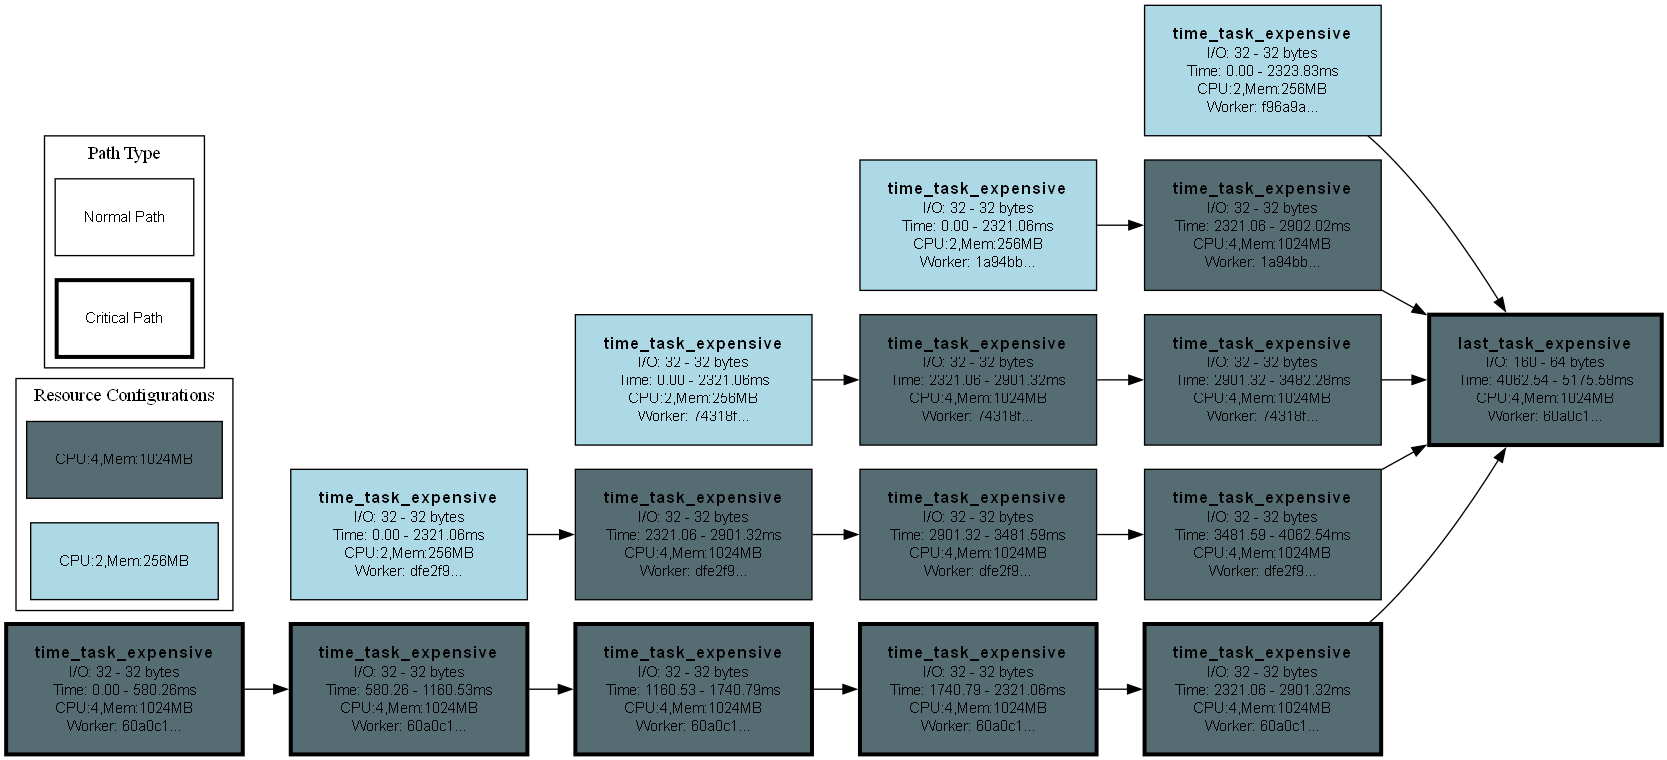
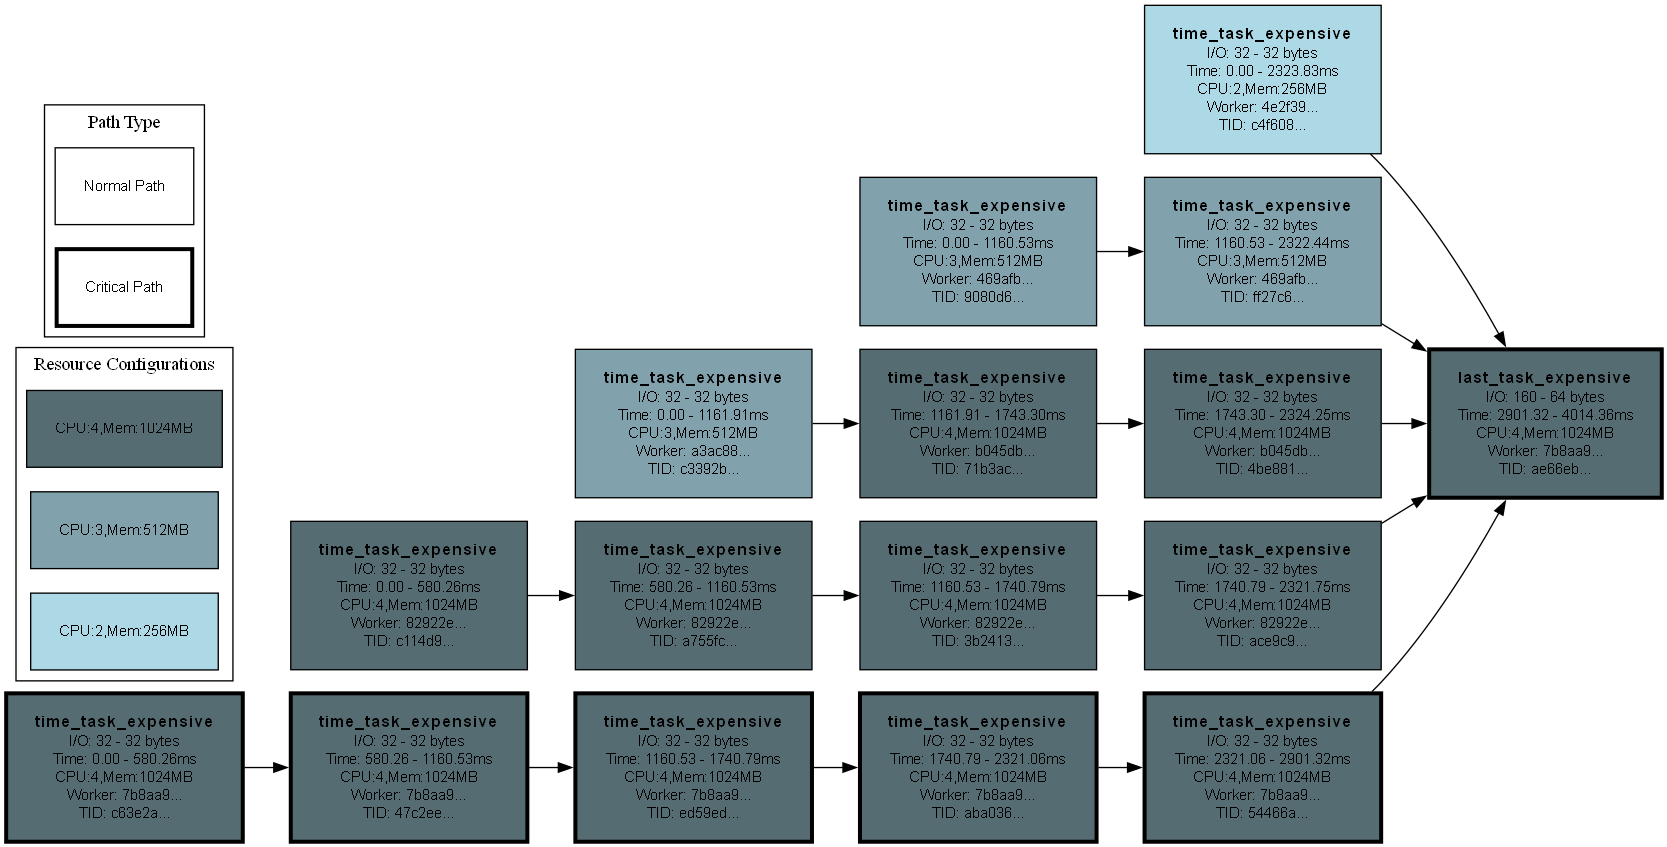
simplify planner code + fix planner to peroperly assign worker_ids + resource configuration downgrade phase now considers the resource configs of the upstream nodes to make the predictions consider locality

diff --git a/src/planning/dag_planner.py b/src/planning/dag_planner.py
@@ -137,7 +137,7 @@ class DAGPlanner(ABC):
         
         return nodes_info
     
-    def _calculate_node_timings_with_custom_resources(self, topo_sorted_nodes: list[DAGTaskNode], metadata_access: MetadataAccess, node_to_resource_config: dict[str, TaskWorkerResourceConfiguration], sla: SLA):
+    def _calculate_node_timings_with_custom_resources(self, topo_sorted_nodes: list[DAGTaskNode], metadata_access: MetadataAccess, sla: SLA):
         """
         Calculate timing information for all nodes using custom resource configurations
         """
@@ -145,12 +145,12 @@ class DAGPlanner(ABC):
 
         for node in topo_sorted_nodes:
             node_id = node.id.get_full_id()
-            worker_id = node.get_annotation(TaskWorkerResourceConfiguration).worker_id
+            resource_config = node.get_annotation(TaskWorkerResourceConfiguration)
+            worker_id = resource_config.worker_id
             (input_size_per_worker, total_input_size) = self._calculate_input_sizes_per_worker_id(node, nodes_info)
             downloadable_input_size = 0
             for upstream_worker_id, upstream_node_input_size in input_size_per_worker.items():
                 if upstream_worker_id != worker_id: downloadable_input_size += upstream_node_input_size
-            resource_config = node_to_resource_config[node_id]
             download_time = metadata_access.predict_data_transfer_time('download', downloadable_input_size, resource_config, sla, allow_cached=True)
             assert download_time is not None
             exec_time = metadata_access.predict_execution_time(node.func_name, total_input_size, resource_config, sla, allow_cached=True)
@@ -228,7 +228,7 @@ class DAGPlanner(ABC):
                 raise Exception(f"Worker {worker_id} has different resource configurations on different tasks")
             worker_id_to_resources_map[worker_id] = (resource_config.cpus, resource_config.memory_mb)
 
-    def _visualize_plan(self, dag, nodes_info: dict[str, PlanningTaskInfo], node_to_resource_config, critical_path_node_ids):
+    def _visualize_plan(self, dag, nodes_info: dict[str, PlanningTaskInfo], critical_path_node_ids):
         """
         Visualize the DAG with task information using Graphviz.
         
@@ -240,6 +240,7 @@ class DAGPlanner(ABC):
             output_file: Base filename to save the visualization (without extension)
         """
         from src.dag.dag import GenericDAG
+        _dag: GenericDAG = dag
         # Create a new directed graph
         dot = Digraph(comment='DAG Visualization')
         dot.attr(rankdir='LR')  # Left to right layout
@@ -248,7 +249,8 @@ class DAGPlanner(ABC):
         
         # Collect unique resource configurations and sort them
         resource_configs = {}
-        for node_id, config in node_to_resource_config.items():
+        for node in _dag._all_nodes.values():
+            config = node.get_annotation(TaskWorkerResourceConfiguration)
             config_key = f"CPU:{config.cpus},Mem:{config.memory_mb}MB"
             resource_configs[config_key] = (config.cpus, config.memory_mb)
         
@@ -277,7 +279,7 @@ class DAGPlanner(ABC):
         # Add nodes
         for node_id, info in nodes_info.items():
             node = info.node_ref
-            resource_config = node_to_resource_config[node_id]
+            resource_config = info.node_ref.get_annotation(TaskWorkerResourceConfiguration)
             config_key = f"CPU:{resource_config.cpus},Mem:{resource_config.memory_mb}MB"
             
             # Create node label with task name in bold and larger font
@@ -289,6 +291,7 @@ class DAGPlanner(ABC):
                     f"<TR><TD><FONT POINT-SIZE='11'>Time: {info.earliest_start:.2f} - {info.path_completion_time:.2f}ms</FONT></TD></TR>" \
                     f"<TR><TD><FONT POINT-SIZE='11'>{config_key}</FONT></TD></TR>" \
                     f"<TR><TD><FONT POINT-SIZE='11'>Worker: {node.get_annotation(TaskWorkerResourceConfiguration).worker_id[:6]}...</FONT></TD></TR>" \
+                    f"<TR><TD><FONT POINT-SIZE='11'>TID: {node.id.get_full_id()[-6:]}...</FONT></TD></TR>" \
                     f"</TABLE>>"
             
             # Set node properties
@@ -391,7 +394,7 @@ class SimpleDAGPlanner(DAGPlanner, WorkerExecutionLogic):
                     unique_resources.worker_id = uuid.uuid4().hex
                 else:
                     # Use same worker id as its first upstream node
-                    unique_resources.worker_id = _dag._all_nodes[node.upstream_nodes[0].id.get_full_id()].get_annotation(TaskWorkerResourceConfiguration).worker_id
+                    unique_resources.worker_id = node.upstream_nodes[0].get_annotation(TaskWorkerResourceConfiguration).worker_id
             return
 
         if not metadata_access.has_required_predictions():
@@ -406,7 +409,7 @@ class SimpleDAGPlanner(DAGPlanner, WorkerExecutionLogic):
                     unique_resources.worker_id = uuid.uuid4().hex
                 else:
                     # Use same worker id as its first upstream node
-                    unique_resources.worker_id = _dag._all_nodes[node.upstream_nodes[0].id.get_full_id()].get_annotation(TaskWorkerResourceConfiguration).worker_id
+                    unique_resources.worker_id = node.upstream_nodes[0].get_annotation(TaskWorkerResourceConfiguration).worker_id
             return
         
         logger.info(f"Starting DAG Planning Algorithm")
@@ -417,67 +420,69 @@ class SimpleDAGPlanner(DAGPlanner, WorkerExecutionLogic):
         # Calculate critical path by analyzing execution times for each path
         # First, calculate execution times for each node with best resources
         
+        # Give best resources to all nodes and reuse worker ids randomly
+        for node in topo_sorted_nodes:
+            resource_config = best_resource_config.clone()
+            node.add_annotation(resource_config)
+            if len(node.upstream_nodes) == 0:
+                # Give each root node a unique worker id
+                resource_config.worker_id = uuid.uuid4().hex
+            else:
+                # Use same worker id as its first upstream node
+                resource_config.worker_id = node.upstream_nodes[0].get_annotation(TaskWorkerResourceConfiguration).worker_id
+
         # Initial planning with Best Resources for all nodes
         nodes_info = self._calculate_node_timings_with_common_resources(topo_sorted_nodes, metadata_access, best_resource_config, self.config.sla)
         critical_path_nodes, critical_path_time = self._find_critical_path(dag, nodes_info)
         critical_path_node_ids = { node.id.get_full_id() for node in critical_path_nodes }
         
         logger.info(f"CRITICAL PATH | Nodes: {len(critical_path_nodes)} | Predicted Completion Time: {critical_path_time} ms")
-        
-        # Downgrade resources for nodes NOT on the critical path
-        # Start with all nodes using best resources
-        node_to_resource_config: dict[str, TaskWorkerResourceConfiguration] = {}
-        for node in topo_sorted_nodes:
-            node_to_resource_config[node.id.get_full_id()] = best_resource_config.clone()
-            if len(node.upstream_nodes) == 0:
-                # Give each root node a unique worker id
-                node_to_resource_config[node.id.get_full_id()].worker_id = uuid.uuid4().hex
-            else:
-                # Use same worker id as its first upstream node
-                node_to_resource_config[node.id.get_full_id()].worker_id = node_to_resource_config[node.upstream_nodes[0].id.get_full_id()].worker_id
 
         nodes_outside_critical_path = [node for node in topo_sorted_nodes if node.id.get_full_id() not in critical_path_node_ids]
         lower_resources_simulation_timer = Timer()
         successful_downgrades = 0
-        # For each NON-critical path node, try to use lower resources
+        # Simulate downgrading resources for nodes NOT on the critical path without creating a new critical path
         for node in nodes_outside_critical_path:
             node_id = node.id.get_full_id()
             node_downgrade_successful = False
             # Try each resource config from highest to lowest on the same worker or new workers
             for resource_config in self.config.available_worker_resource_configurations:
-                original_config = node_to_resource_config[node_id]
+                original_config = node.get_annotation(TaskWorkerResourceConfiguration)
+                # if resource_config.cpus == original_config.cpus and resource_config.memory_mb == original_config.memory_mb: continue
                 # Temporarily assign this resource config
                 simulation_resource_config = resource_config.clone()
-                simulation_resource_config.worker_id = original_config.worker_id
-                node_to_resource_config[node_id] = simulation_resource_config
+                simulation_resource_config.worker_id = ""
 
                 for unode in node.upstream_nodes:
-                    simulation_resource_config.worker_id = node_to_resource_config[unode.id.get_full_id()].worker_id
-                        
-                    # Recalculate timings with this resource configuration
-                    temp_nodes_info = self._calculate_node_timings_with_custom_resources(topo_sorted_nodes, metadata_access, node_to_resource_config, self.config.sla)
-                    _, new_critical_path_time = self._find_critical_path(dag, temp_nodes_info)
+                    unode_resources = unode.get_annotation(TaskWorkerResourceConfiguration)
+                    if unode_resources.cpus == simulation_resource_config.cpus and unode_resources.memory_mb == simulation_resource_config.memory_mb: 
+                        simulation_resource_config.worker_id = unode.get_annotation(TaskWorkerResourceConfiguration).worker_id
 
-                    if new_critical_path_time != critical_path_time:
-                        node_to_resource_config[node_id] = original_config # REVERT: This config changes the critical path
-                    else:
-                        # print(f"Node: {node_id[-6:]} | Downgraded Resources: {original_config.memory_mb} => {node_to_resource_config[node_id].memory_mb}")
-                        node_downgrade_successful = True
+                # couldn't find an upstream node with the same resources to reuse the worker, simulate a new worker with these resources
+                if simulation_resource_config.worker_id == "": simulation_resource_config.worker_id = uuid.uuid4().hex
+                node.add_annotation(simulation_resource_config) # replace the original one and simulate
+                        
+                # Recalculate timings with this resource configuration
+                temp_nodes_info = self._calculate_node_timings_with_custom_resources(topo_sorted_nodes, metadata_access, self.config.sla)
+                _, new_critical_path_time = self._find_critical_path(dag, temp_nodes_info)
+
+                if new_critical_path_time != critical_path_time:
+                    node.add_annotation(original_config) # REVERT: This config changes the critical path
+                else:
+                    # print(f"Node: {node_id[-6:]} | Downgraded Resources: {original_config.memory_mb} => {node_to_resource_config[node_id].memory_mb}")
+                    node_downgrade_successful = True
 
             if node_downgrade_successful:
                 successful_downgrades += 1
 
         logger.info(f"Downgraded resources for {successful_downgrades} nodes out of {len(nodes_outside_critical_path)} nodes outside the critical path in {lower_resources_simulation_timer.stop():.3f} ms")
-
-        # Annotate nodes with resource configs
-        for node in topo_sorted_nodes: node.add_annotation(node_to_resource_config[node.id.get_full_id()])
         
         # Log Results
         resource_distribution = {}
-        for node_id, config in node_to_resource_config.items():
-            config_key = f"CPU:{config.cpus},Memory:{config.memory_mb}MB"
-            if config_key not in resource_distribution:
-                resource_distribution[config_key] = 0
+        for node_id, node in _dag._all_nodes.items():
+            resource_config = node.get_annotation(TaskWorkerResourceConfiguration)
+            config_key = f"CPU:{resource_config.cpus},Memory:{resource_config.memory_mb}MB"
+            if config_key not in resource_distribution: resource_distribution[config_key] = 0
             resource_distribution[config_key] += 1
             
         logger.info(f"CRITICAL PATH | Nodes: {len(critical_path_nodes)} | Predicted Completion Time: {critical_path_time} ms")
@@ -485,8 +490,8 @@ class SimpleDAGPlanner(DAGPlanner, WorkerExecutionLogic):
         logger.info(f"Planning completed in {algorithm_start_time.stop():.3f} ms")
 
         # DEBUG: Plan Visualization
-        updated_nodes_info = self._calculate_node_timings_with_custom_resources(topo_sorted_nodes, metadata_access, node_to_resource_config, self.config.sla)
-        self._visualize_plan(dag, updated_nodes_info, node_to_resource_config, critical_path_node_ids)
+        updated_nodes_info = self._calculate_node_timings_with_custom_resources(topo_sorted_nodes, metadata_access, self.config.sla)
+        self._visualize_plan(dag, updated_nodes_info, critical_path_node_ids)
         # !!! FOR QUICK TESTING ONLY. REMOVE LATER !!!
         self.validate_plan(updated_nodes_info)
         exit()

diff --git a/TODO.md b/TODO.md
@@ -20,7 +20,8 @@
                 [DONE] Add support for delegating a **list of subdags**
                 [DONE] Add support for workers to **receive and execute a list of subdags** (separate coroutines)
     [TODO] Add a validation step after planning to ensure that equal `worker_ids` have the same resource configuration
-        BUG: Currently planning is not valid
+        BUG: PLan is not giving the same worker ids to sequential tasks that have the same resources
+        [TODO] Before exiting, a worker must look ahead and wait for its assigned tasks to become ready
     [TODO] Add a separate suite of tests for running on docker workers and asserting that the correct workers execute the tasks
 
 - Think how to implement the `pre-load` optimization
